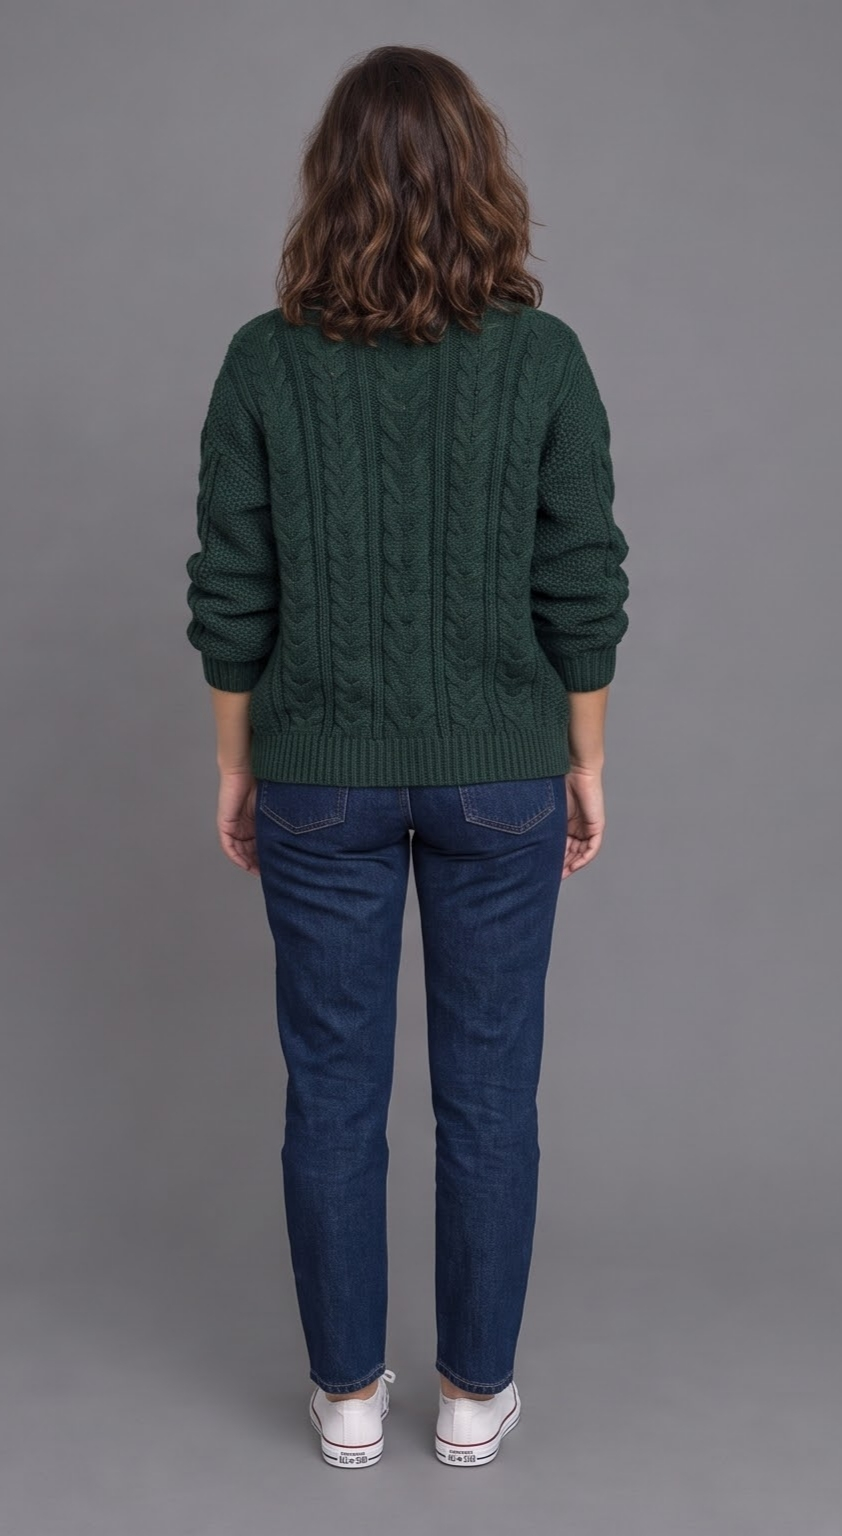
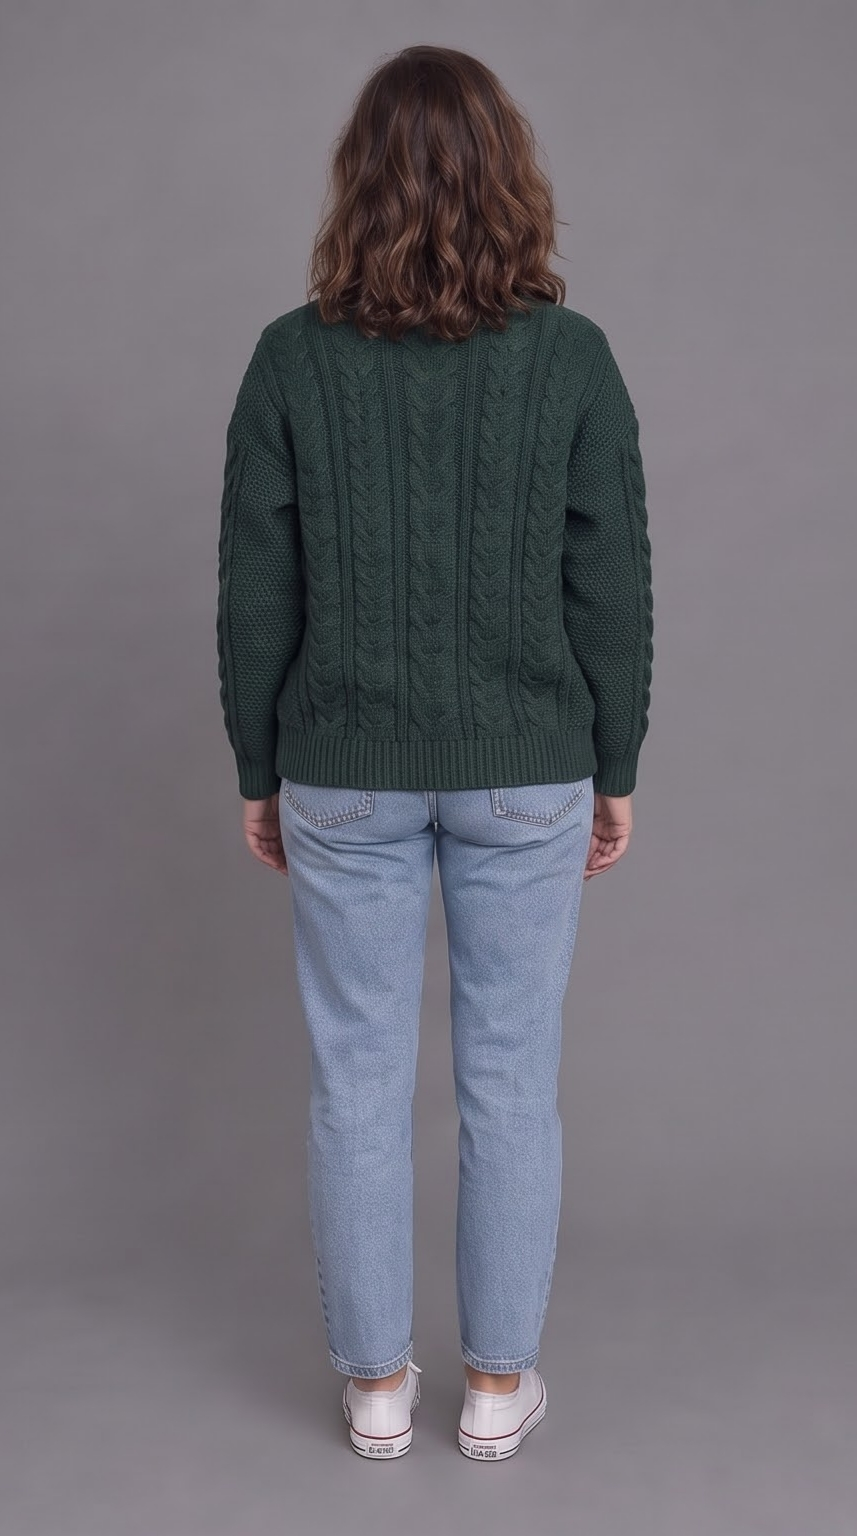
u20: planszka auta, kolejność zdjęć autora, nowe referencje auto-przod, tomek-tyl, ania-tyl
Claude-Session: https://claude.ai/code/session_016EPQYktmXUKDY56pgePcbR

Changed region(s): [[0.2162, 0.0312, 0.772, 0.9688]]

diff --git a/teledysk/prompty/u20-podjazd.md b/teledysk/prompty/u20-podjazd.md
@@ -322,12 +322,12 @@ ONLY CHANGE: the rolled mattress on the roof rack and the two people in the fron
 
 ## Planszka `auto-z-para-planszka.jpg`: przód i tył auta z parą (NBP)
 
-Flow · NBP · 3:2 · 2k · x3. 1 = `referencje/auto-u18-puste.jpg` (auto z materacem), 2 = `referencje/auto.png` (przód auta i tablice), 3 = `referencje/auto-tyl.png` (tył i tablica), 4 = `referencje/tomek-koszulka-kurtka.jpg` (twarz i strój Tomka), 5 = `referencje/ania-paski-kardigan.jpg` (twarz i strój Ani), 6 = `referencje/tomek-tyl.jpg` (tył głowy), 7 = `referencje/ania-tyl.jpg` (tył głowy).
+Flow · NBP · 3:2 · 2k · x3. 1 = `referencje/auto-u18-puste.jpg` (auto z materacem), 2 = `referencje/auto-tyl.png` (tył i tablica), 3 = `referencje/auto-przod.png` (przód auta i przednia tablica), 4 = `referencje/tomek-koszulka-kurtka.jpg` (twarz i strój Tomka), 5 = `referencje/ania-paski-kardigan.jpg` (twarz i strój Ani), 6 = `referencje/tomek-tyl.jpg` (tył głowy), 7 = `referencje/ania-tyl.jpg` (tył głowy).
 
 ```text
 Two studio photographs side by side on one plain mid-grey studio backdrop, a film vehicle sheet of the same car with the same two people inside: on the left panel the car seen straight from the front, on the right panel the same car seen straight from behind. The same real car and the same two real people in both panels, consistent across panels.
 
-The car in both panels is exactly the yellow 1980s five-door hatchback from image 1, with black rub strips, black bumpers, silver five-spoke wheels and a black roof rack; its front as in image 2, its rear as in image 3, the license plates reading exactly "WA 12345" in black letters on white plates. On the roof rack in both panels lies the same rolled mattress as in image 1, lengthwise along the roof, wrapped in crinkled clear plastic, held by two orange straps, its ends showing two or three thick soft turns of white foam.
+The car in both panels is exactly the yellow 1980s five-door hatchback from image 1, with black rub strips, black bumpers, silver five-spoke wheels and a black roof rack; its rear as in image 2, its front as in image 3, the license plates reading exactly "WA 12345" in black letters on white plates. On the roof rack in both panels lies the same rolled mattress as in image 1, lengthwise along the roof, wrapped in crinkled clear plastic, held by two orange straps, its ends showing two or three thick soft turns of white foam.
 
 Seating, the same in both panels: the man from image 4 sits in the driver's seat behind the steering wheel, both hands on the wheel; the woman from image 5 sits in the front passenger seat next to him. Both sit in the FRONT seats; the rear seat is empty, with only a few plain brown boxes in the boot below the rear headrests.
 
